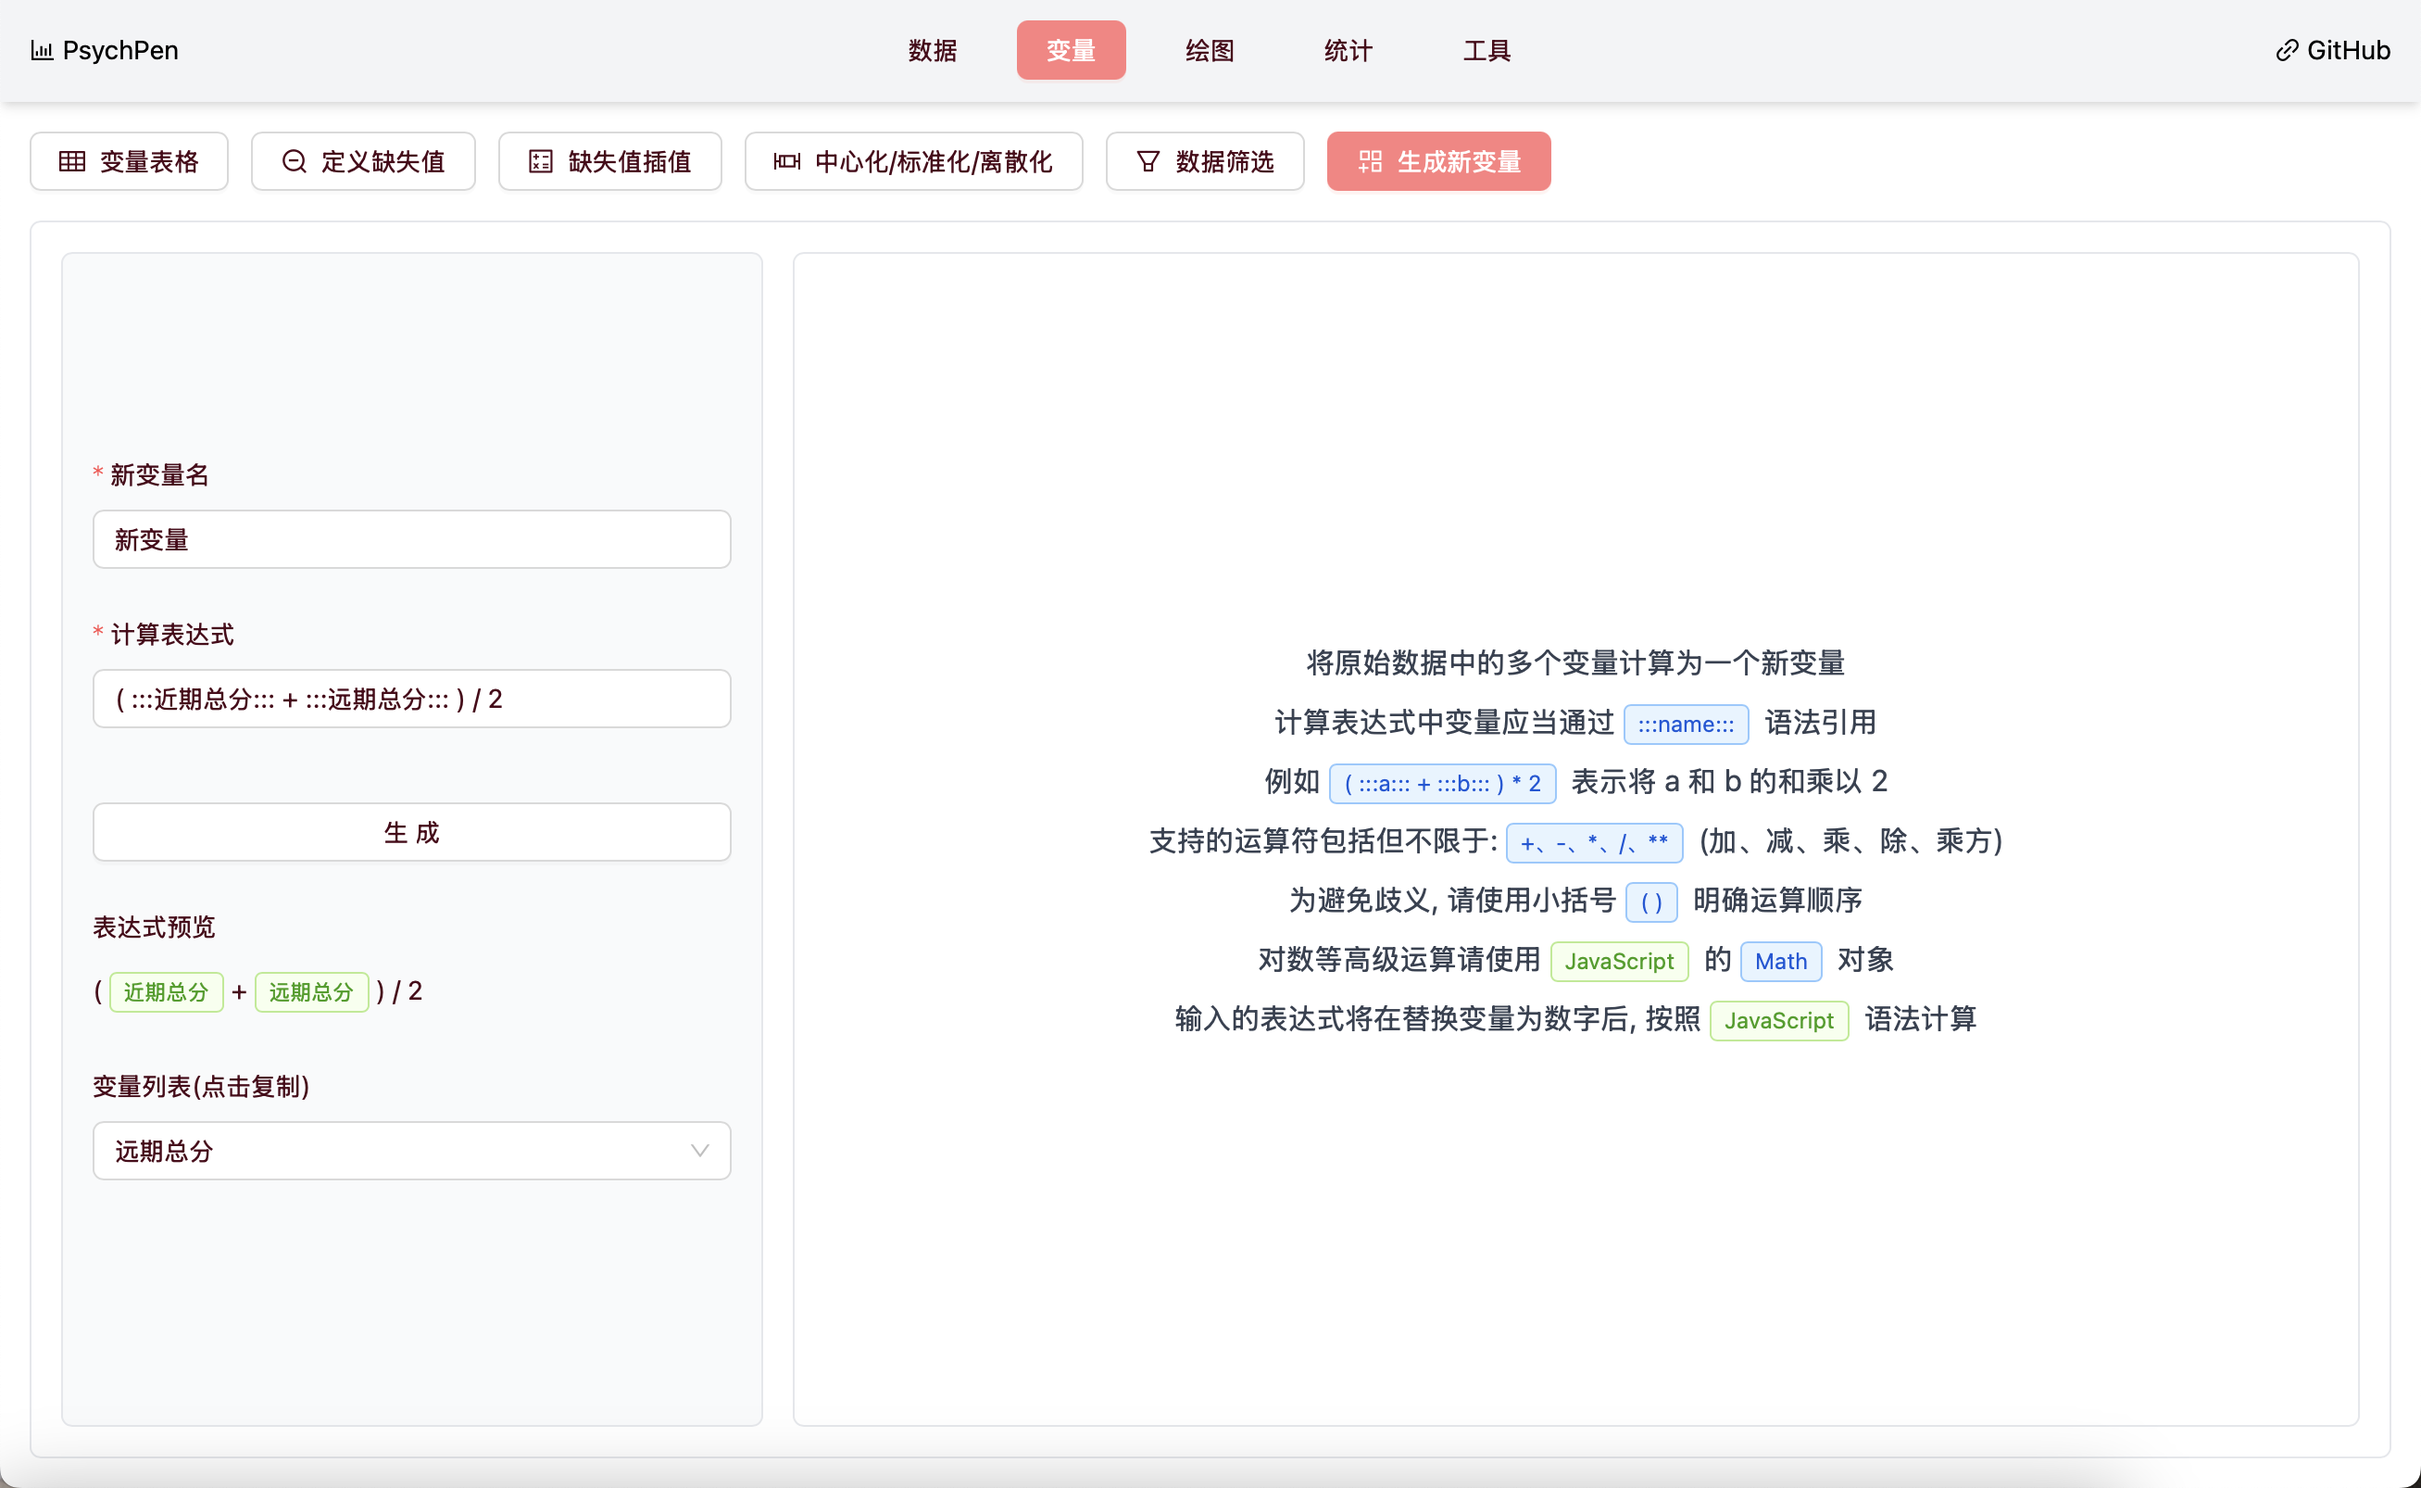
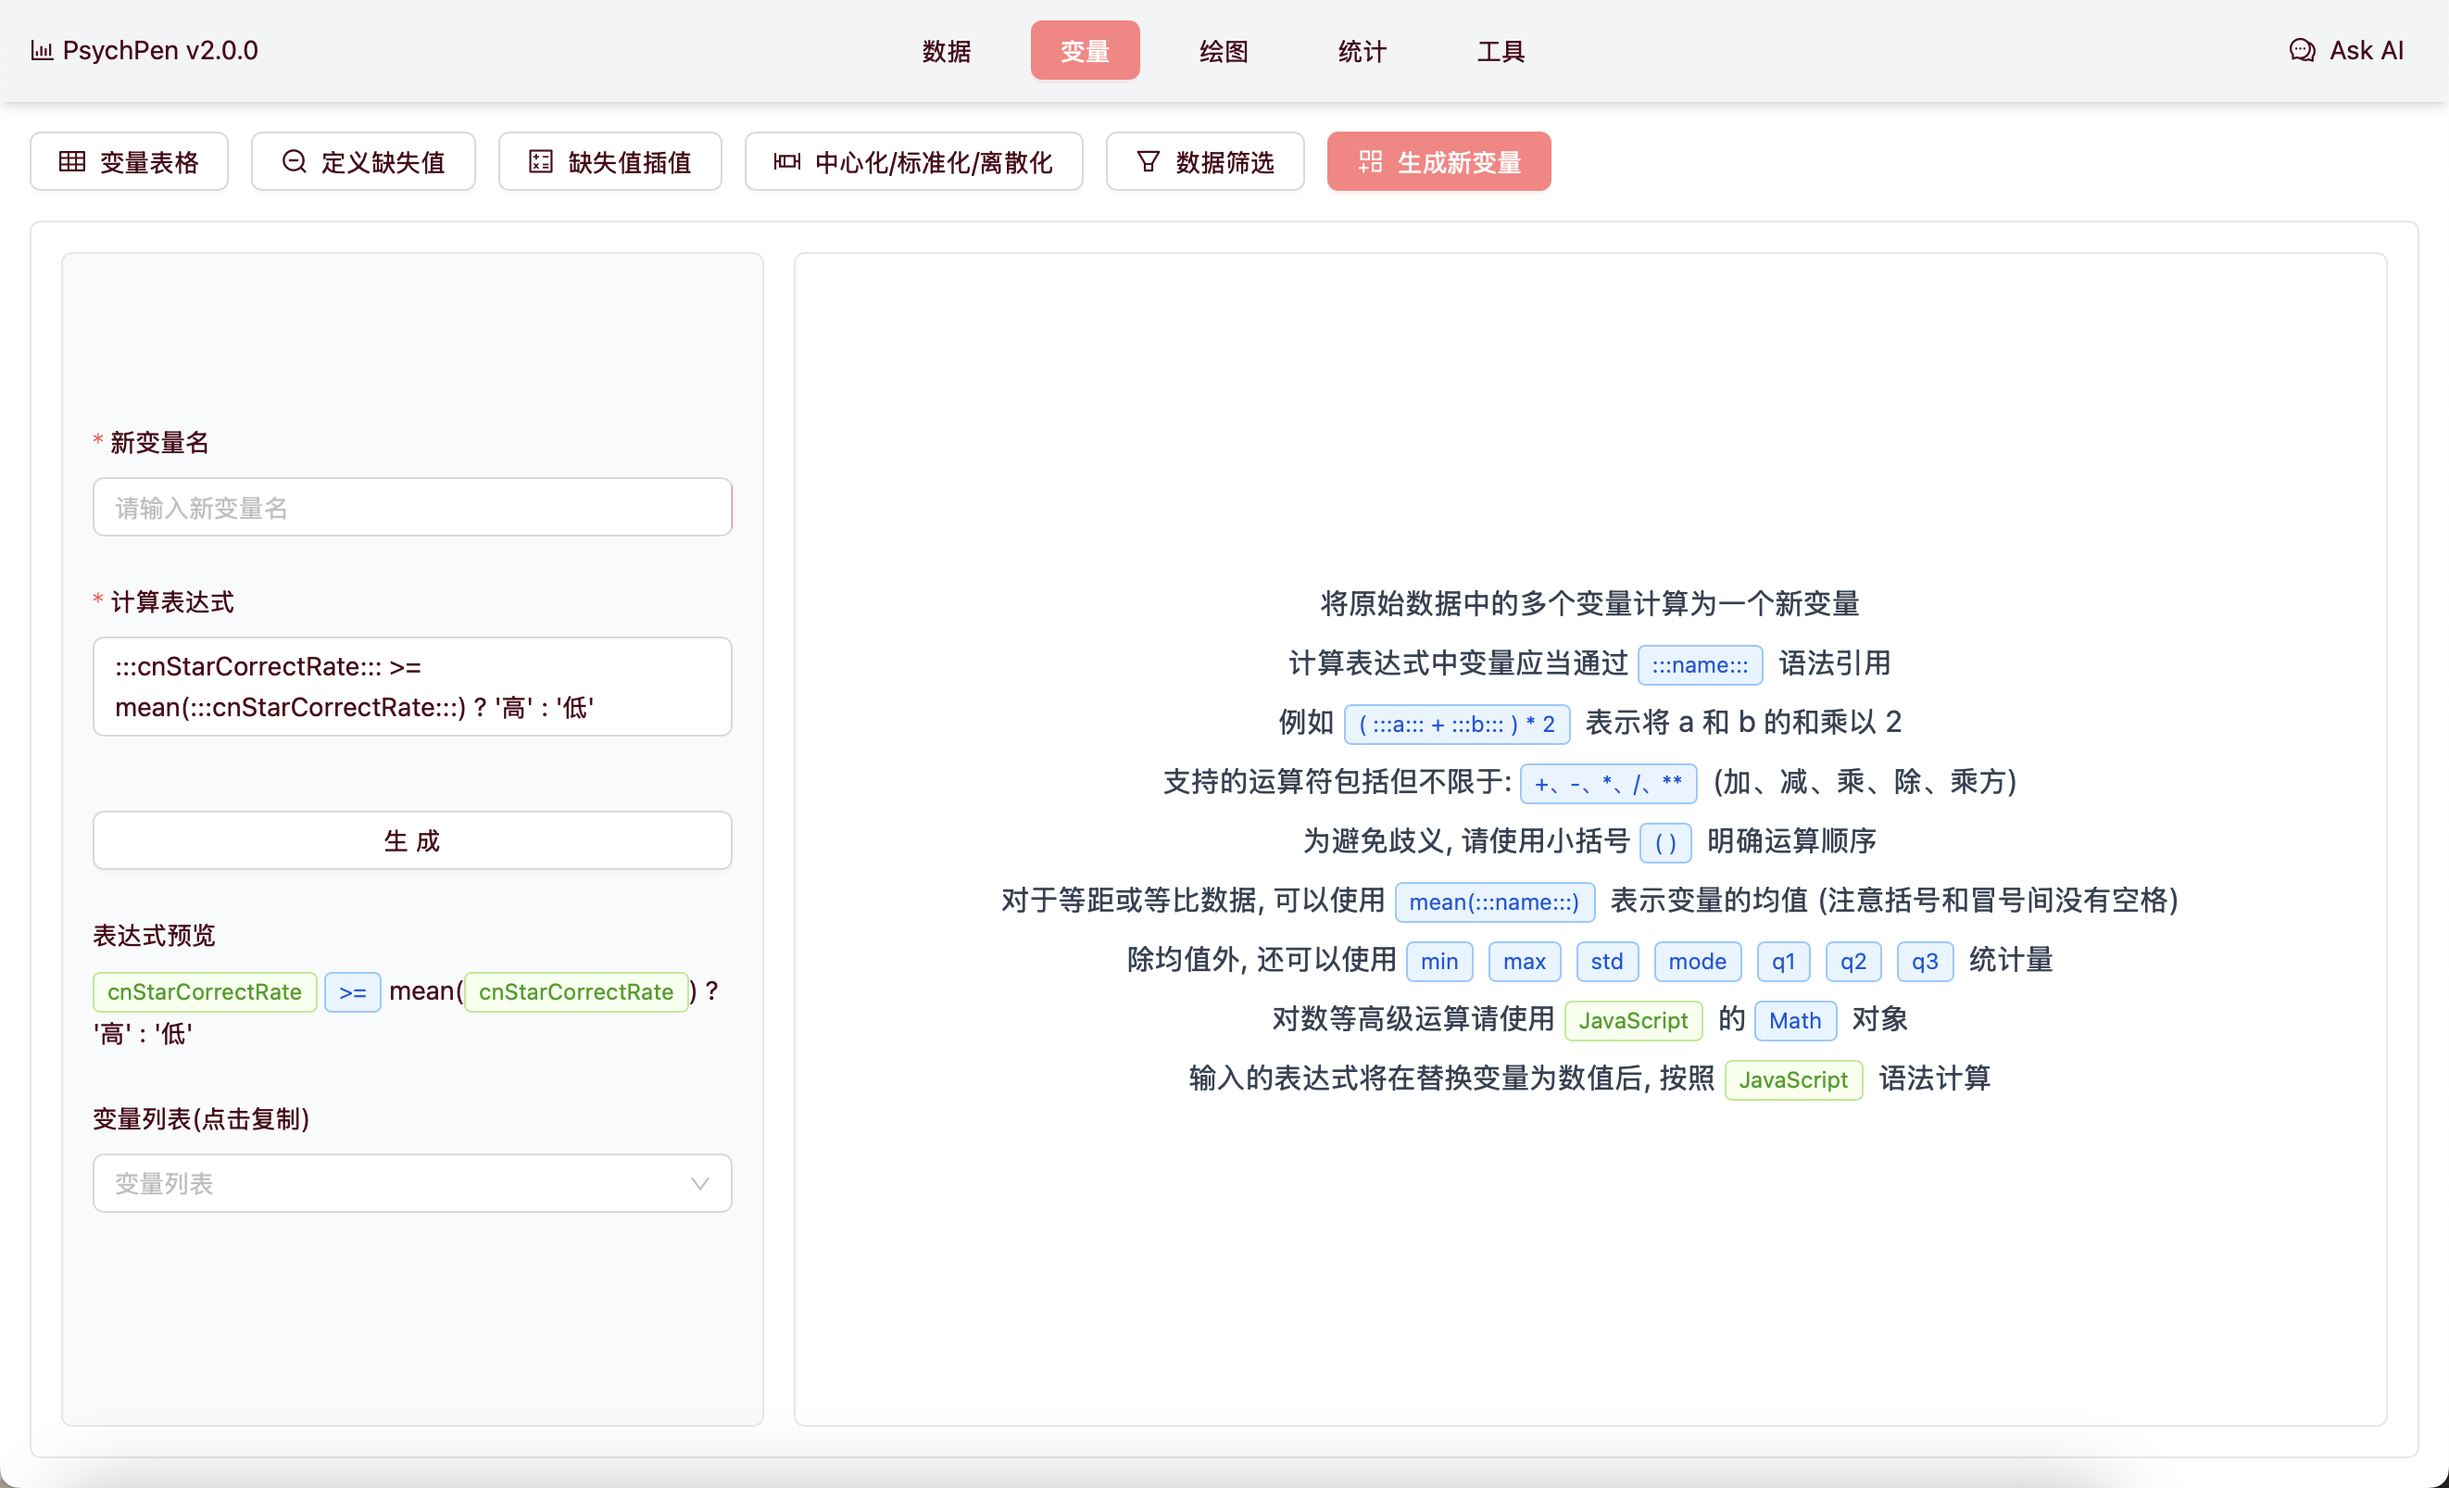
feat: 计算变量支持使用等距或等比变量的统计量

diff --git a/src/lib/utils.ts b/src/lib/utils.ts
@@ -1,4 +1,148 @@
 import html2canvas from 'html2canvas'
+import type { Variable } from '../types'
+
+/**
+ * 计算变量的表达式 (如果引用的变量有缺失值, 则返回 undefined)
+ * @param expression 表达式
+ * @param variables 变量列表
+ * @param data 数据
+ * @throws 如果表达式不合法, 则抛出异常
+ * @returns 计算结果
+ */
+export function computeExpression(
+  expression: string,
+  variables: Variable[],
+  data: Record<string, unknown>,
+): number | string | undefined {
+  try {
+    const vars = expression.match(/:::.+?:::/g)
+    if (vars) {
+      vars.forEach((v) => {
+        const name = v.slice(3, -3)
+        if (!variables.find((v) => v.name == name)) {
+          throw new Error(`变量 ${name} 不存在`)
+        }
+      })
+      if (
+        vars.some((v) => {
+          const name = v.slice(3, -3)
+          const value = data[name]
+          return value === undefined || value === null
+        })
+      ) {
+        return undefined
+      }
+    }
+    const value = eval(embedValues(expression, variables, data))
+    return value
+  } catch (e) {
+    throw new Error(
+      `执行表达式失败: ${e instanceof Error ? e.message : String(e)}`,
+    )
+  }
+}
+
+/**
+ * 将数值或统计量嵌入表达式
+ * @param expression 表达式
+ * @param variables 变量列表
+ * @param data 数据
+ * @throws 如果变量不存在/引用了不存在的变量统计量, 则抛出异常
+ * @returns 嵌入数值或统计量后的表达式
+ */
+export function embedValues(
+  expression: string,
+  variables: Variable[],
+  data: Record<string, unknown>,
+): string {
+  // min(:::name:::)
+  expression = expression.replace(/min\((:::.+?:::)\)/g, (v) => {
+    const name = v.slice(7, -4)
+    const variable = variables.find((v) => v.name == name)
+    if (!variable) throw new Error(`变量 ${name} 不存在`)
+    if (variable.min === undefined)
+      throw new Error(`变量 ${name} 没有最小值, 请确认变量类型`)
+    return variable.min.toString()
+  })
+  // max(:::name:::)
+  expression = expression.replace(/max\((:::.+?:::)\)/g, (v) => {
+    const name = v.slice(7, -4)
+    const variable = variables.find((v) => v.name == name)
+    if (!variable) throw new Error(`变量 ${name} 不存在`)
+    if (variable.max === undefined)
+      throw new Error(`变量 ${name} 没有最大值, 请确认变量类型`)
+    return variable.max.toString()
+  })
+  // mean(:::name:::)
+  expression = expression.replace(/mean\((:::.+?:::)\)/g, (v) => {
+    const name = v.slice(8, -4)
+    const variable = variables.find((v) => v.name == name)
+    if (!variable) throw new Error(`变量 ${name} 不存在`)
+    if (variable.mean === undefined)
+      throw new Error(`变量 ${name} 没有均值, 请确认变量类型`)
+    return variable.mean.toString()
+  })
+  // mode(:::name:::)
+  expression = expression.replace(/mode\((:::.+?:::)\)/g, (v) => {
+    const name = v.slice(8, -4)
+    const variable = variables.find((v) => v.name == name)
+    if (!variable) throw new Error(`变量 ${name} 不存在`)
+    if (variable.mode === undefined)
+      throw new Error(`变量 ${name} 没有众数, 请确认变量类型`)
+    return variable.mode.toString()
+  })
+  // q1(:::name:::)
+  expression = expression.replace(/q1\((:::.+?:::)\)/g, (v) => {
+    const name = v.slice(6, -4)
+    const variable = variables.find((v) => v.name == name)
+    if (!variable) throw new Error(`变量 ${name} 不存在`)
+    if (variable.q1 === undefined)
+      throw new Error(`变量 ${name} 没有 25% 分位数, 请确认变量类型`)
+    return variable.q1.toString()
+  })
+  // q2(:::name:::)
+  expression = expression.replace(/q2\((:::.+?:::)\)/g, (v) => {
+    const name = v.slice(6, -4)
+    const variable = variables.find((v) => v.name == name)
+    if (!variable) throw new Error(`变量 ${name} 不存在`)
+    if (variable.q2 === undefined)
+      throw new Error(`变量 ${name} 没有 50% 分位数, 请确认变量类型`)
+    return variable.q2.toString()
+  })
+  // q3(:::name:::)
+  expression = expression.replace(/q3\((:::.+?:::)\)/g, (v) => {
+    const name = v.slice(6, -4)
+    const variable = variables.find((v) => v.name == name)
+    if (!variable) throw new Error(`变量 ${name} 不存在`)
+    if (variable.q3 === undefined)
+      throw new Error(`变量 ${name} 没有 75% 分位数, 请确认变量类型`)
+    return variable.q3.toString()
+  })
+  // std(:::name:::)
+  expression = expression.replace(/std\((:::.+?:::)\)/g, (v) => {
+    const name = v.slice(7, -4)
+    const variable = variables.find((v) => v.name == name)
+    if (!variable) throw new Error(`变量 ${name} 不存在`)
+    if (variable.std === undefined)
+      throw new Error(`变量 ${name} 没有标准差, 请确认变量类型`)
+    return variable.std.toString()
+  })
+  // :::name:::
+  expression = expression.replace(/:::.+?:::/g, (v) => {
+    const name = v.slice(3, -3)
+    const variable = variables.find((v) => v.name == name)
+    if (!variable) throw new Error(`变量 ${name} 不存在`)
+    const value = data[name]
+    if (value === undefined || value === null) {
+      throw new Error(`变量 ${name} 的值不存在`)
+    } else if (!isNaN(Number(value))) {
+      return `${Number(value)}`
+    } else {
+      return `"${String(value)}"`
+    }
+  })
+  return expression
+}
 
 /**
  * 检查计算变量的表达式的安全性

diff --git a/src/components/variable/ComputeVar.tsx b/src/components/variable/ComputeVar.tsx
@@ -9,10 +9,11 @@ type Option = {
   variable: string
   /**
    * 计算表达式
-   * 变量名语法为 :::name:::
    * 输入的表达式在将变量为替换为数字后, 必须能够被按照 JS 语法计算
    */
   expression: string
+  /** 变量列表 */
+  _variable?: string
 }
 
 export function ComputeVar() {
@@ -123,13 +124,13 @@ export function ComputeVar() {
           <Form.Item label='表达式预览'>
             <Expression value={expression} />
           </Form.Item>
-          <Form.Item label='变量列表(点击复制)'>
+          <Form.Item label='变量列表(点击复制)' name='_variable'>
             <Select
               placeholder='变量列表'
               allowClear
               showSearch
-              options={dataCols.map(({ name }) => ({
-                label: name,
+              options={dataCols.map(({ name, type }) => ({
+                label: `${name} (${type})`,
                 value: name,
               }))}
               onChange={async (value) => {
@@ -137,6 +138,7 @@ export function ComputeVar() {
                 const expression = `:::${value}:::`
                 try {
                   await navigator.clipboard.writeText(expression)
+                  form.resetFields(['_variable'])
                   messageApi?.success(`已复制 ${expression}`)
                 } catch (error) {
                   messageApi?.error(
@@ -166,11 +168,24 @@ export function ComputeVar() {
           为避免歧义, 请使用小括号 <Tag color='blue'>( )</Tag>明确运算顺序
         </p>
         <p className='intro-text'>
+          对于等距或等比数据, 可以使用 <Tag color='blue'>mean(:::name:::)</Tag>
+          表示变量的均值 (注意括号和冒号间没有空格)
+        </p>
+        <p className='intro-text'>
+          除均值外, 还可以使用 <Tag color='blue'>min</Tag>
+          <Tag color='blue'>max</Tag>
+          <Tag color='blue'>std</Tag>
+          <Tag color='blue'>mode</Tag>
+          <Tag color='blue'>q1</Tag>
+          <Tag color='blue'>q2</Tag>
+          <Tag color='blue'>q3</Tag>统计量
+        </p>
+        <p className='intro-text'>
           对数等高级运算请使用 <Tag color='green'>JavaScript</Tag>的{' '}
           <Tag color='blue'>Math</Tag>对象
         </p>
         <p className='intro-text'>
-          输入的表达式将在替换变量为数字后, 按照{' '}
+          输入的表达式将在替换变量为数值后, 按照{' '}
           <Tag color='green'>JavaScript</Tag>语法计算
         </p>
       </div>
@@ -179,18 +194,31 @@ export function ComputeVar() {
 }
 
 function Expression({ value }: { value: string }) {
+  const nameReg = /(:::.+?:::)/g
+  const computeReg = /(===|!==|==|!=|>=|<=|\+|-|\/|\*\*|>|<|\*)/g
   return (
     <>
-      {value.split(/(:::.+?:::)/g).map((part, index) => {
-        if (part.match(/:::.+?:::/)) {
-          return (
-            <Tag key={index} color='green' style={{ margin: 0 }}>
-              {part.slice(3, -3)}
-            </Tag>
-          )
-        }
-        return <span key={index}>{part}</span>
-      })}
+      {value
+        .split(nameReg)
+        .map((part) => part.split(computeReg))
+        .flat()
+        .map((part, index) => {
+          if (nameReg.test(part)) {
+            return (
+              <Tag key={index} color='green' style={{ margin: 0 }}>
+                {part.slice(3, -3)}
+              </Tag>
+            )
+          } else if (part.match(computeReg)) {
+            return (
+              <Tag key={index} color='blue' style={{ margin: 0 }}>
+                {part}
+              </Tag>
+            )
+          } else {
+            return <span key={index}>{part}</span>
+          }
+        })}
     </>
   )
 }

diff --git a/src/lib/hooks/useData.ts b/src/lib/hooks/useData.ts
@@ -1,6 +1,6 @@
 import type { Variable } from '../../types'
 import { create } from 'zustand'
-import { validateExpression } from '../utils'
+import { validateExpression, computeExpression } from '../utils'
 import { Derive } from '../calculates/derive'
 import { Missing } from '../calculates/misssing'
 import { Describe } from '../calculates/describe'
@@ -138,38 +138,9 @@ export const useData = create<DataState>()((setState, getState) => {
         // 故意使用 == 而不是 ===
         throw new Error(`变量名 ${name} 已存在`)
       }
-      const vars = expression.match(/:::.+?:::/g) ?? []
-      if (vars.length > 0) {
-        vars.forEach((v) => {
-          if (!dataCols.find(({ name }) => name == v.slice(3, -3))) {
-            // 故意使用 == 而不是 ===
-            throw new Error(`变量 ${v} 不存在`)
-          }
-        })
-      }
       const newRows = dataRows.map((row) => {
-        // 如果参考的变量值不存在, 或已被按照缺失值定义删除, 则新变量值也是缺失值
-        if (vars.some((v) => row[v.slice(3, -3)] === undefined)) {
-          return { [name]: undefined, ...row }
-        }
-        const expressionWithValues = expression.replace(/:::.+?:::/g, (v) => {
-          const value = row[v.slice(3, -3)]
-          if (!value) {
-            return 'undefined'
-          }
-          if (!isNaN(Number(value))) {
-            return `${Number(value)}`
-          }
-          return `'${String(value)}'`
-        })
-        try {
-          const result = eval(expressionWithValues)
-          return { [name]: result, ...row }
-        } catch (error) {
-          throw new Error(
-            `执行表达式失败: ${error instanceof Error ? error.message : String(error)}`,
-          )
-        }
+        const value = computeExpression(expression, dataCols, row)
+        return { [name]: value, ...row }
       })
       const describe = new Describe([{ name }], newRows)
       const newCols = [...describe.updatedCols, ...dataCols]
